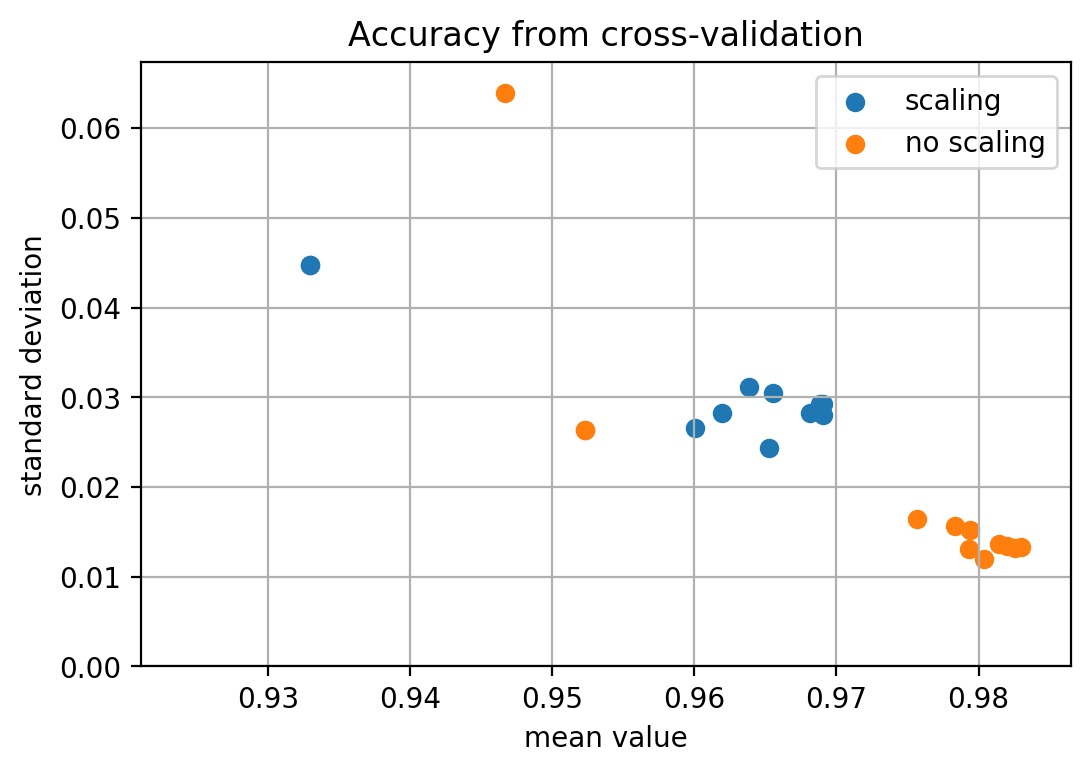
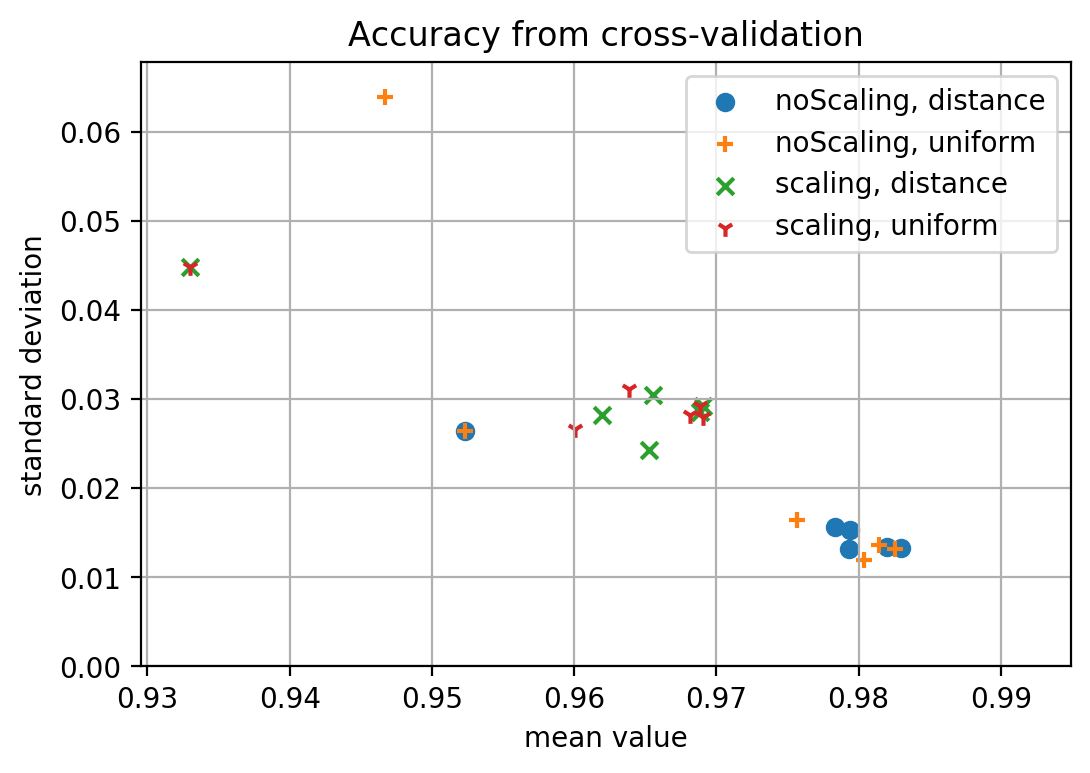
made plot_accuracy_knn more informative

diff --git a/Exercise 2/functions.py b/Exercise 2/functions.py
@@ -413,18 +413,29 @@ def plot_accuracy_knn(path: str = None, filename: str = None):
     evaluation = pd.read_hdf(os.path.join(path, filename + '_evaluation.h5'),
         key='evaluation')
 
+    scalings = evaluation.index.levels[1].to_list()
+    weights = evaluation.index.levels[2].to_list()
+
     rows_scaling = (slice(None), 'scaling', slice(None),
         'cross-validation', 'Classifier')
     rows_noScaling = (slice(None), 'noScaling', slice(None),
         'cross-validation', 'Classifier')
-    data = {'scaling': rows_scaling,
+    rows_of_interest = {'scaling': rows_scaling,
         'no scaling': rows_noScaling}
 
     fig = plt.figure()
-    for label, rows in data.items():
-        plt.scatter(evaluation.loc[rows, ('accuracy MEAN')],
-            evaluation.loc[rows, ('accuracy SD')],
-            label=label)
+    marker_cycle = ['o', '+', 'x', '1']
+    idx = 0
+    for scaling in scalings:
+            for weight in weights:
+                label=', '.join([scaling, weight])
+                rows = (slice(None), scaling, weight, 'cross-validation', 'Classifier')
+                plt.scatter(
+                    evaluation.loc[rows, ('accuracy MEAN')],
+                    evaluation.loc[rows, ('accuracy SD')],
+                    label=label,
+                    marker=marker_cycle[idx])
+                idx = idx + 1
     plt.ylim(bottom=0)
     plt.title('Accuracy from cross-validation')
     plt.xlabel('mean value')

diff --git a/Exercise 2/occupancy.py b/Exercise 2/occupancy.py
@@ -122,11 +122,11 @@ if False:
         cfg.default.occupancy_figures,
         'knn')
 
-if True:
+if False:
     # Plot performance (efficiency and effectiveness)
     functions.plot_evaluation_knn(cfg.default.occupancy_figures, 'knn')
 
-if False:
+if True:
     # For cross-validation scatter-plot accuracy mean and standard deviation
     functions.plot_accuracy_knn(cfg.default.occupancy_figures, 'knn')
 if False:
